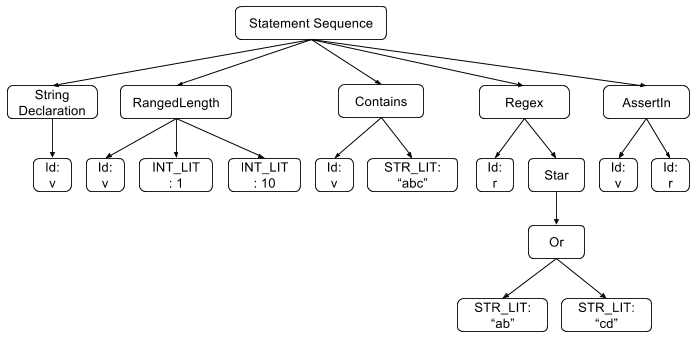
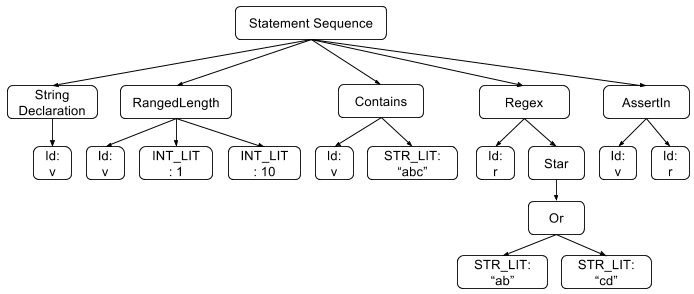
Fixed the figure

Changed region(s): [[0.0, 0.0, 0.9986, 1.0]]

diff --git a/paper/approach.tex b/paper/approach.tex
@@ -78,11 +78,11 @@ the string is a member of a regular expression, $(ab|cd)*$.
 One of the strings which satisfy this constraint is ``abcd''. The string can be of any length
 between 1 and 100. \imss will parse the input into an AST (Figure~\ref{fig:exp-ast}) according to Grammar~\ref{fig:grammar}.
 
-\begin{figure}[H]
+\begin{figure*}
     \centering
-    \includegraphics[scale=0.35]{example-ast}
+    \includegraphics[scale=0.65]{example-ast}
     \caption{\label{fig:exp-ast}Abstract syntax tree of the example Code~\ref{code:example}.}
-\end{figure}
+\end{figure*}
 
 Then, \imss will translate the AST into all the three input formats by traversing the tree and
 translate each tree node into a string format of each language. If a solver language does not support
